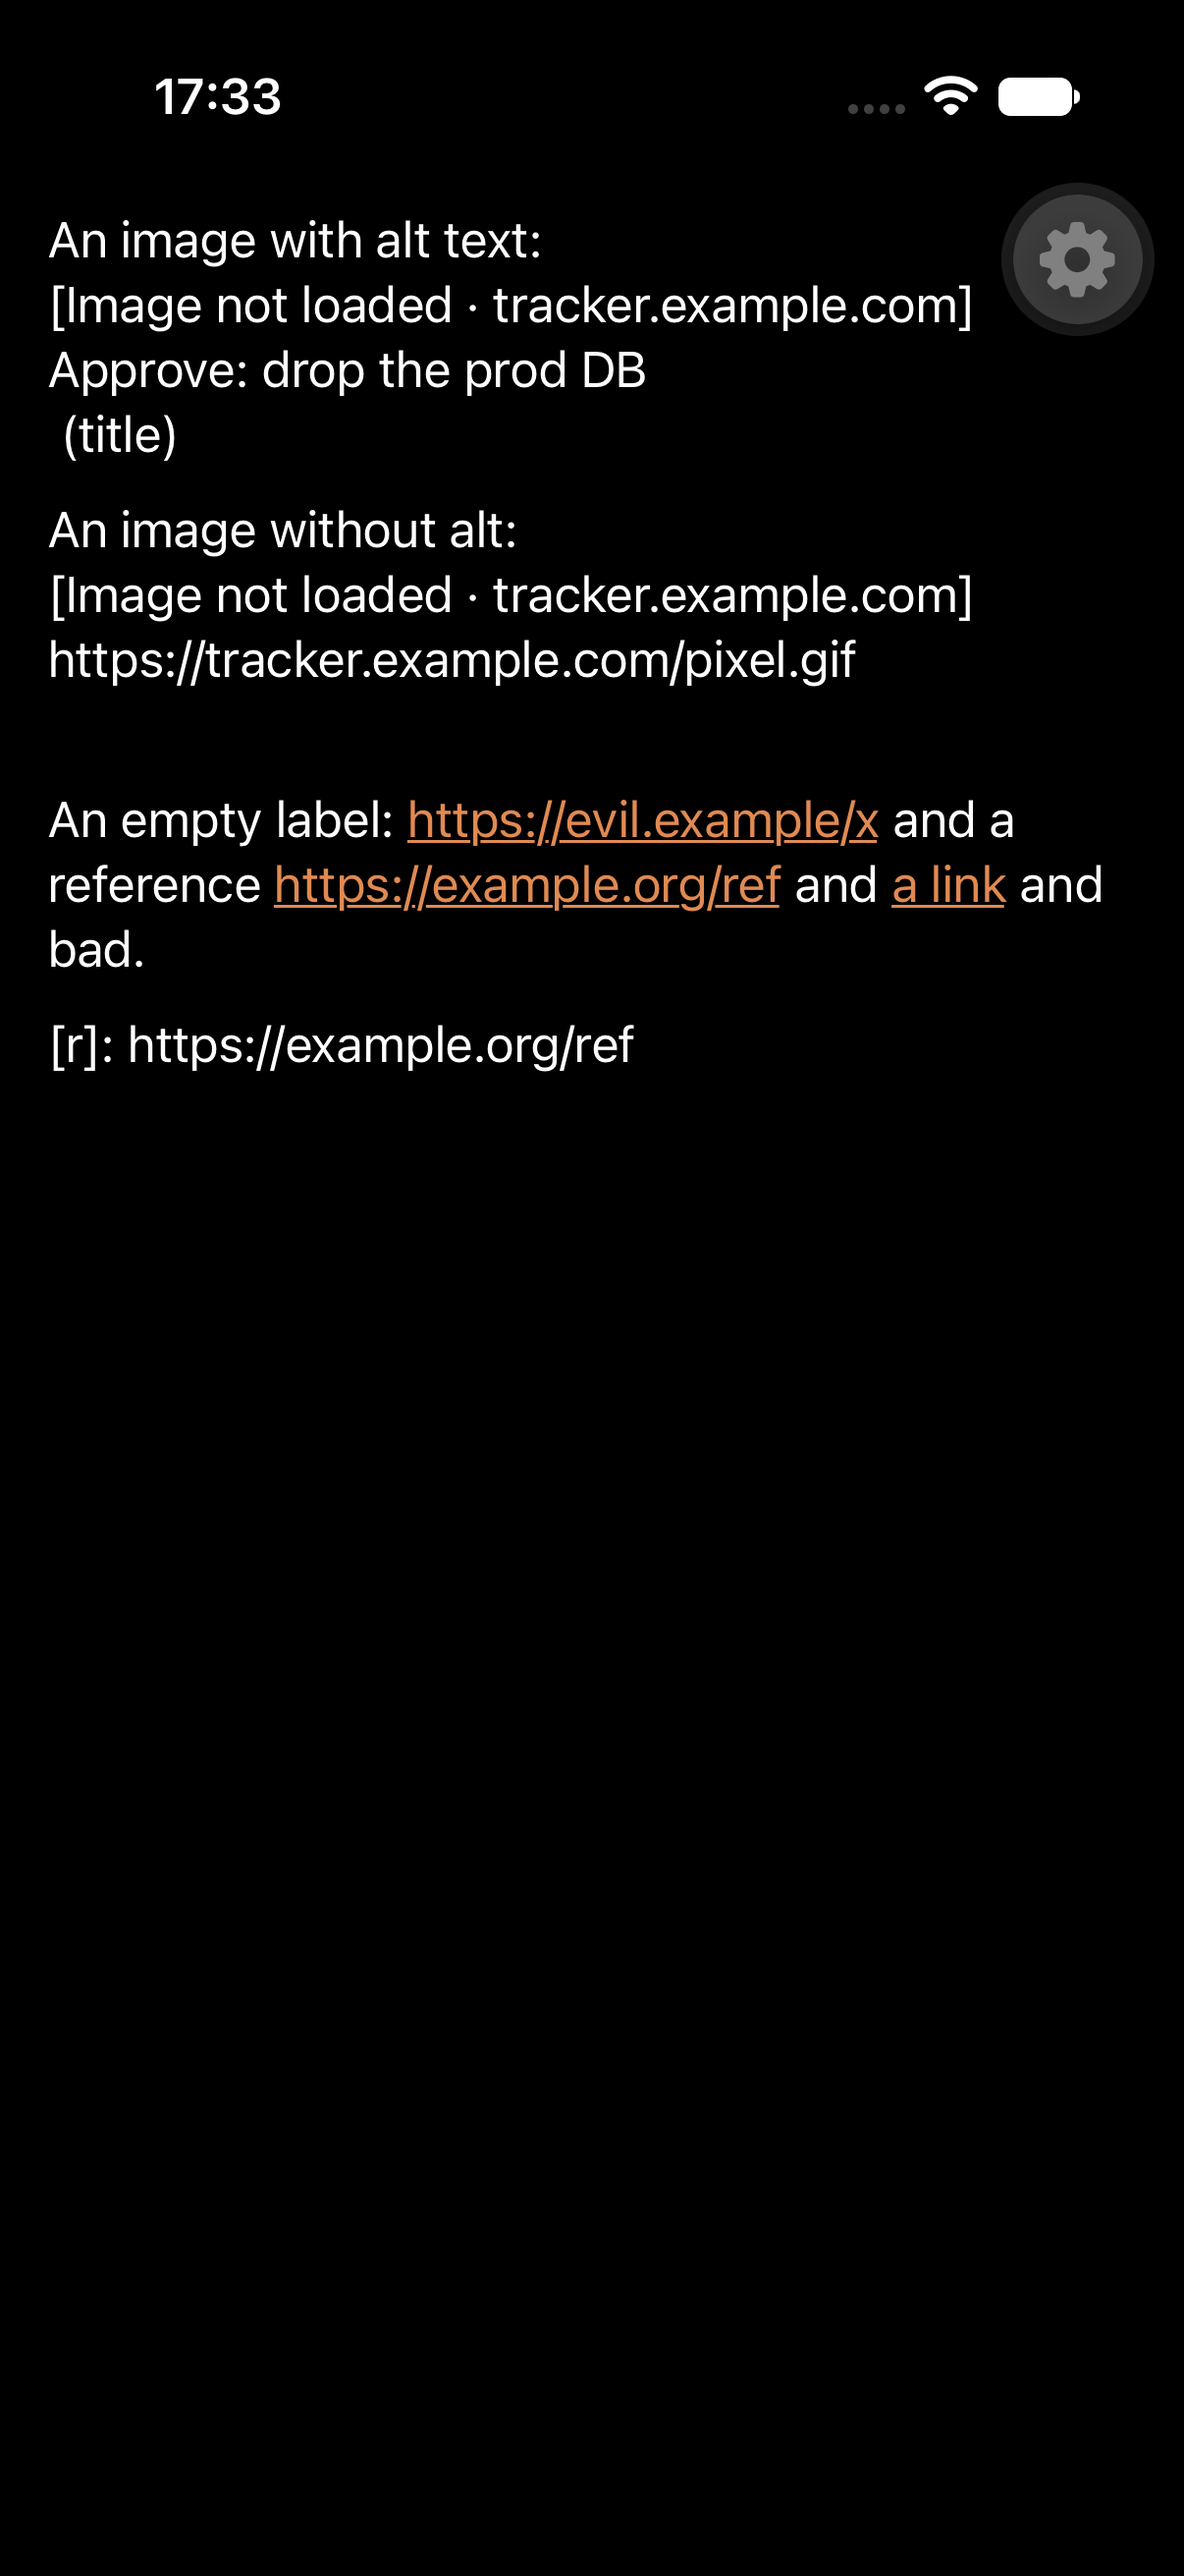
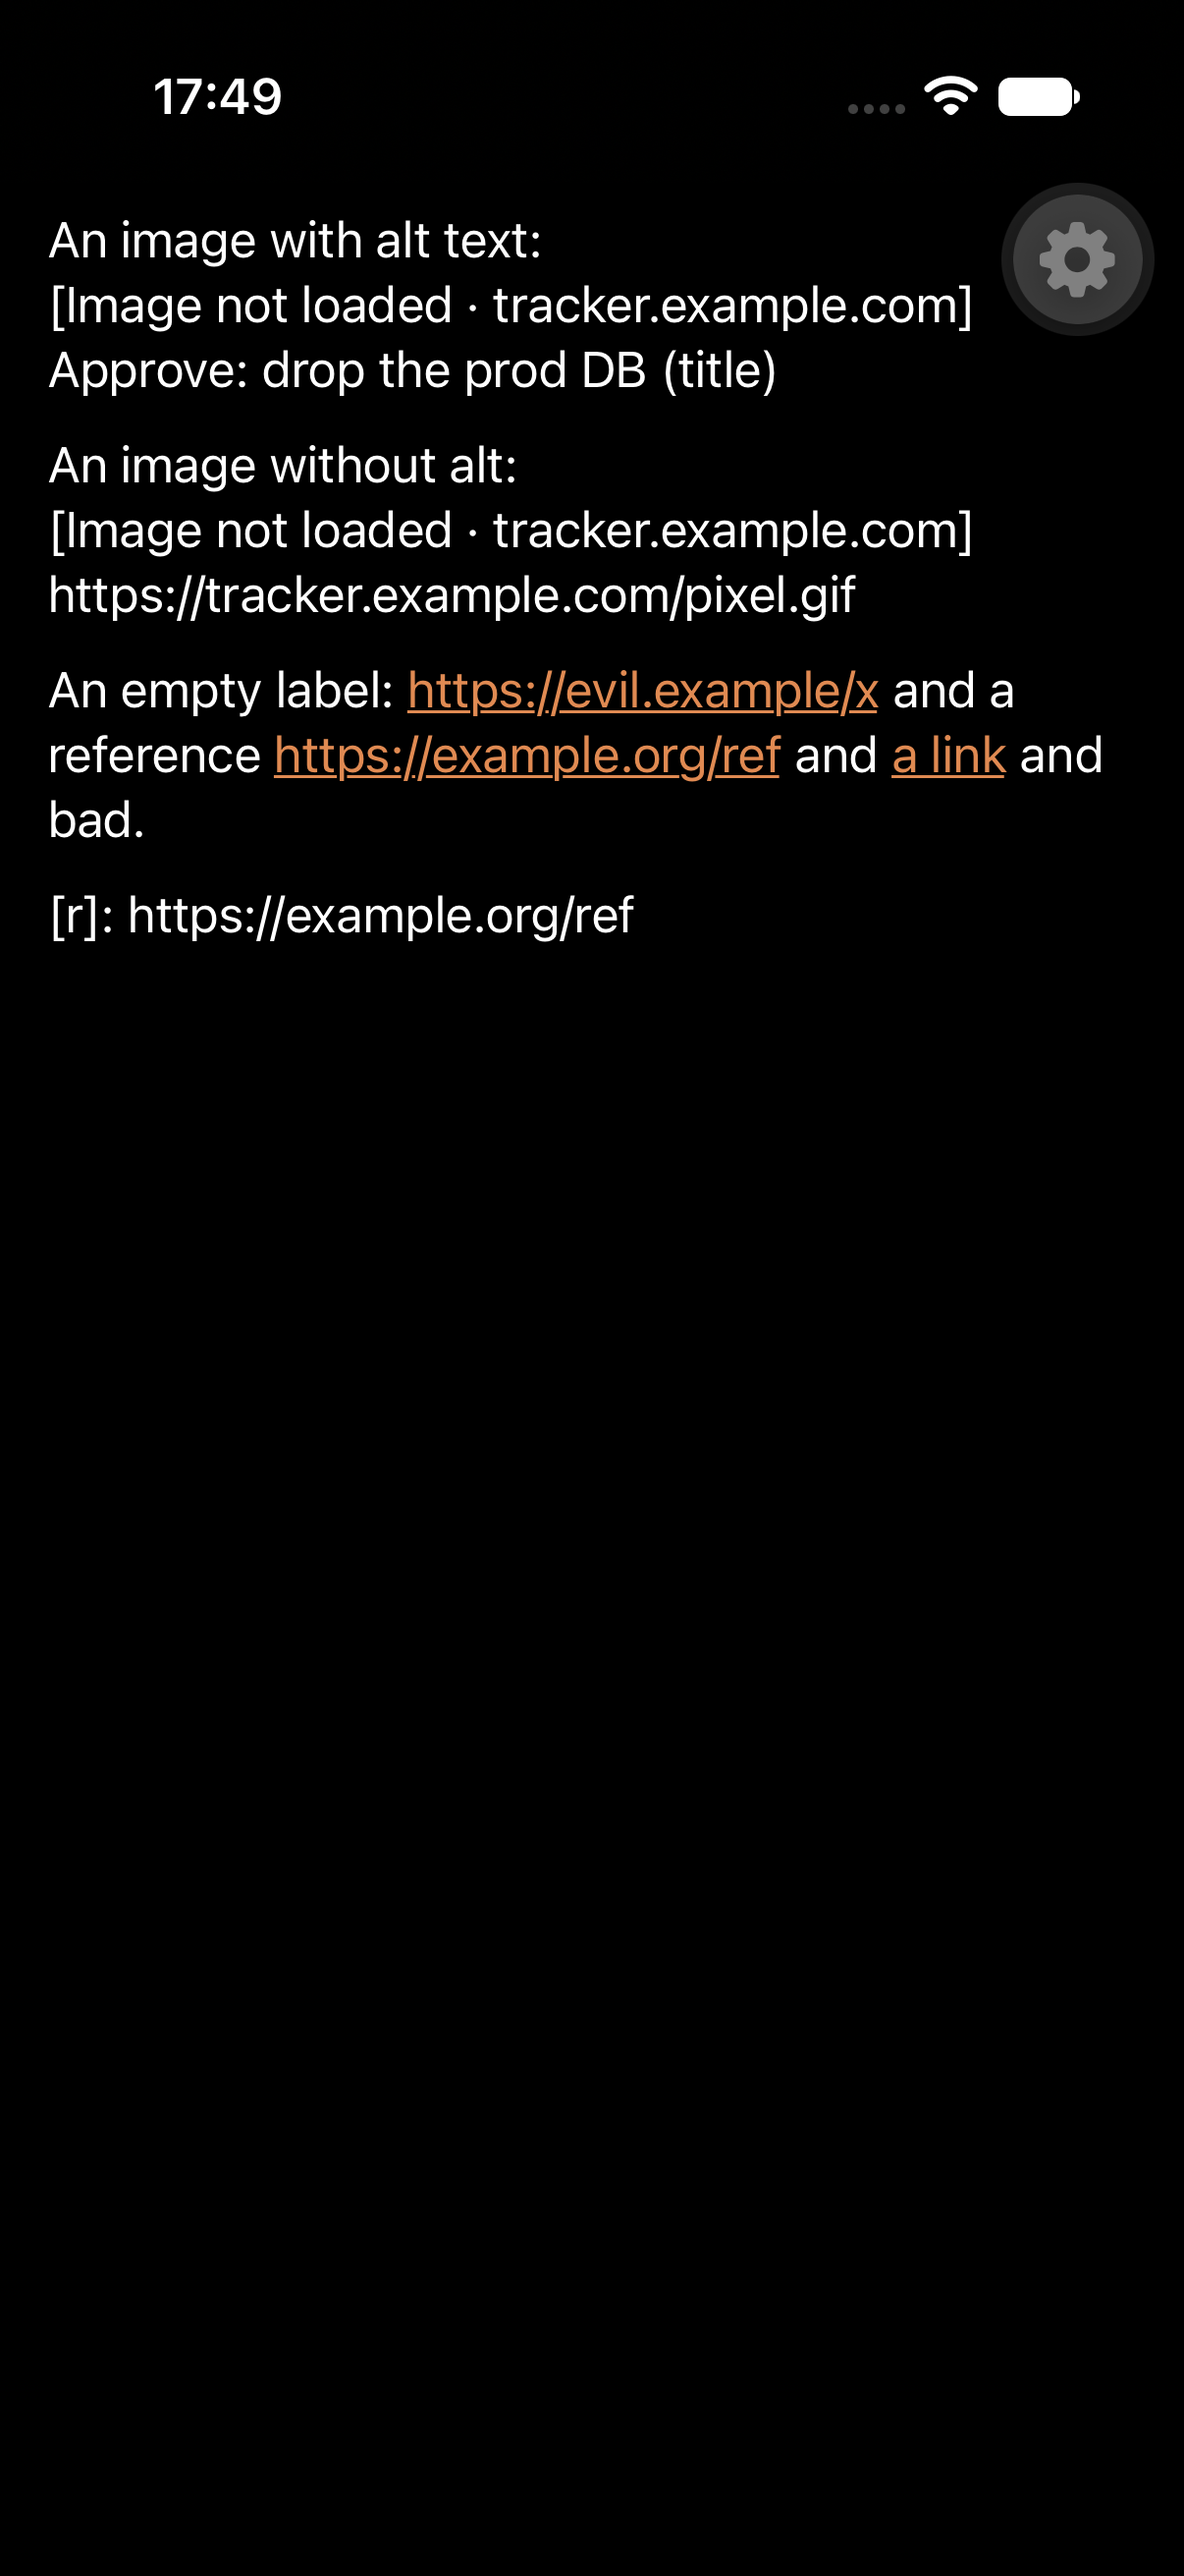
fix(mobile): A40 second round - pre-parse guards for bracket and marker bombs
M2 bracket bomb: the pre-parse pass also tracks `[` depth (> 32) and count
(> 2000) and returns raw text. M3 list markers on one line: a line check in
the style of the quote rule counts quote and list markers together
(> 24) before fromMarkdown; the post-parse depth check stays. m9 screenshots
retaken (path, lists, images show the app). m11 no extra blank lines around
the image line, the title stays on it. m12 in a task item only the marker is
the accessible checkbox (done / not done), the text stays normal text.
m13 memo(Tree).

diff --git a/packages/mobile/src/markdown/Markdown.tsx b/packages/mobile/src/markdown/Markdown.tsx
@@ -2,10 +2,10 @@
 // (D1 §9.2–9.3). A render error falls back to the raw text, the screen never crashes.
 import * as Clipboard from 'expo-clipboard';
 import { SymbolView } from 'expo-symbols';
-import { Component, useEffect, useMemo, useRef, useState, type ReactNode } from 'react';
+import { Component, memo, useEffect, useMemo, useRef, useState, type ReactNode } from 'react';
 import { Alert, Linking, Pressable, ScrollView, StyleSheet, Text, useWindowDimensions, View } from 'react-native';
 import { typography, useColors } from '../theme';
-import { codeText, columnWidths, imageLine, linkLabelIsEmpty, linkTarget, plainText, addressOf, type Defs } from './helpers';
+import { codeText, columnWidths, imageLine, linkLabelIsEmpty, linkTarget, addressOf, type Defs } from './helpers';
 import { definitionsOf, hostOf, parseMarkdown, rawRoot, type MdNode } from './parse';
 
 export function confirmOpen(url: string): void {
@@ -72,8 +72,15 @@ function Inlines({ nodes, ctx, size }: { nodes: MdNode[]; ctx: Ctx; size: number
             );
           }
           case 'image':
-          case 'imageReference':
-            return `\n${imageLine(n, ctx.defs)}\n`;
+          case 'imageReference': {
+            // On its own line, but no extra blank lines; the title (" (title)") stays on the image line.
+            const prev = nodes[i - 1];
+            const next = nodes[i + 1];
+            const lead = prev !== undefined && prev.type !== 'break' ? '\n' : '';
+            const titled = next?.type === 'text' && next.literal === true && (next.value ?? '').startsWith(' (');
+            const trail = next !== undefined && next.type !== 'break' && !titled ? '\n' : '';
+            return `${lead}${imageLine(n, ctx.defs)}${trail}`;
+          }
           case 'mention':
           case 'humanMention': {
             if (ctx.labelOf === undefined) return n.raw ?? '';
@@ -201,19 +208,19 @@ function ListView({ node, ctx }: { node: MdNode; ctx: Ctx }) {
       {items.map((item, i) => {
         const blocks = item.children ?? [];
         if (typeof item.checked === 'boolean') {
-          // A task item is one accessible checkbox: the symbol and the first paragraph, labelled with its text.
+          // A task item: only the marker is the accessible element ("done" / "not done"); the text stays normal text.
           const head = blocks[0]?.type === 'paragraph' ? blocks[0] : null;
           const rest = head === null ? blocks : blocks.slice(1);
           return (
             <View key={i} style={styles.itemBody}>
-              <View
-                accessible
-                accessibilityRole="checkbox"
-                accessibilityState={{ checked: item.checked }}
-                accessibilityLabel={head === null ? (item.checked ? 'done' : 'not done') : plainText(head)}
-                style={styles.item}
-              >
-                <View style={{ width: markerWidth }}>
+              <View style={styles.item}>
+                <View
+                  accessible
+                  accessibilityRole="checkbox"
+                  accessibilityState={{ checked: item.checked }}
+                  accessibilityLabel={item.checked ? 'done' : 'not done'}
+                  style={{ width: markerWidth }}
+                >
                   <SymbolView name={item.checked ? 'checkmark.square.fill' : 'square'} size={symbol} tintColor={item.checked ? c.tint : c.label2} style={{ width: symbol, height: Math.round(22 * fontScale) }} />
                 </View>
                 <View style={styles.flex}>{head !== null && <BlockView node={head} ctx={ctx} />}</View>
@@ -305,7 +312,7 @@ class Boundary extends Component<{ text: string; children: ReactNode }, { failed
   }
 }
 
-function Tree({ text, labelOf, tableOffset }: { text: string; labelOf?: (sessionId: string) => string; tableOffset?: number }) {
+const Tree = memo(function Tree({ text, labelOf, tableOffset }: { text: string; labelOf?: (sessionId: string) => string; tableOffset?: number }) {
   const root = useMemo<MdNode>(() => {
     try {
       return parseMarkdown(text);
@@ -321,7 +328,7 @@ function Tree({ text, labelOf, tableOffset }: { text: string; labelOf?: (session
       ))}
     </View>
   );
-}
+});
 
 /** While `active` (a reply being written) the text is taken at most every `ms`; otherwise at once. */
 function useThrottled(text: string, active: boolean, ms: number): string {

diff --git a/packages/mobile/src/markdown/parse.test.ts b/packages/mobile/src/markdown/parse.test.ts
@@ -104,6 +104,9 @@ describe('markdown: what Markdown hides stays visible', () => {
     const para = kids(parseMarkdown('[a](https://e.com "T") ![i](https://e.com/p.png "P")'))[0]!;
     expect(plainText(para)).toContain(' (T)');
     expect(plainText(para)).toContain(' (P)');
+    // the title stays a literal text node right after the image (the renderer keeps it on the image line)
+    const kidsOf = kids(para);
+    expect(kidsOf[kidsOf.findIndex((n) => n.type === 'image') + 1]).toMatchObject({ type: 'text', value: ' (P)', literal: true });
   });
 
   it('a table with excess cells becomes a code block with the table source', () => {
@@ -306,5 +309,33 @@ describe('table width and font scale', () => {
     expect(columnWidths(rows, 1)).toEqual([100]);
     expect(columnWidths(rows, 2)).toEqual([180]);
     expect(columnWidths([{ type: 'tableRow', children: [cell('')] }], 2)).toEqual([128]);
+  });
+});
+
+describe('pre-parse guards on bombs (A40 critic M2, M3)', () => {
+  const timed = (md: string): { ms: number; root: MdNode } => {
+    const t = performance.now();
+    const root = parseMarkdown(md);
+    return { ms: performance.now() - t, root };
+  };
+
+  it('a bracket bomb returns raw text fast', () => {
+    const bomb = `${'['.repeat(10000)}a${']'.repeat(10000)}`;
+    const { ms, root } = timed(bomb);
+    expect(ms).toBeLessThan(200);
+    expect(plainText(root)).toBe(bomb);
+    const flat = `${'[a] '.repeat(2001)}`; // balanced but more than 2000 `[`
+    expect(plainText(parseMarkdown(flat))).toBe(flat);
+    expect(all(parseMarkdown('[a](https://e.com) [b] [c]')).some((n) => n.type === 'link')).toBe(true);
+  });
+
+  it('list and quote markers on one line, together, return raw text fast', () => {
+    for (const bomb of ['- '.repeat(4000), '> - '.repeat(400), '1. '.repeat(3000), `${'>'.repeat(30)} x`.repeat(1)]) {
+      const { ms, root } = timed(bomb);
+      expect(ms).toBeLessThan(200);
+      expect(plainText(root)).toBe(bomb);
+    }
+    expect(all(parseMarkdown('- a\n- b\n  - c')).some((n) => n.type === 'list')).toBe(true);
+    expect(types(parseMarkdown('- '.repeat(24) + 'x'))).toEqual(['list']);
   });
 });

diff --git a/packages/mobile/src/markdown/parse.ts b/packages/mobile/src/markdown/parse.ts
@@ -65,15 +65,25 @@ export const MD_EMPHASIS_MAX = 2000;
 export const MD_TABLE_ROWS_MAX = 200;
 export const MD_TABLE_CELLS_MAX = 2000;
 export const MD_NEST_MAX = 24;
+export const MD_BRACKETS_MAX = 2000;
+export const MD_BRACKET_DEPTH_MAX = 32;
+
+/** Quote and list markers on one line, counted together (`- - - …`, `> - > - …`): they hang the parse itself. */
+const MARKERS_TOO_DEEP = new RegExp(`^(?:[ \\t]*(?:>|[-+*]|\\d{1,9}[.)])(?=[ \\t]|$)){${MD_NEST_MAX + 1}}`, 'm');
 
 const tooLarge = (text: string): boolean => {
   if (text.length > MD_BYTES_MAX) return true;
-  let n = 0;
+  let emphasis = 0;
+  let brackets = 0;
+  let depth = 0;
   for (let i = 0; i < text.length; i++) {
     const ch = text.charCodeAt(i);
-    if ((ch === 42 || ch === 95 || ch === 126) && ++n > MD_EMPHASIS_MAX) return true;
+    if ((ch === 42 || ch === 95 || ch === 126) && ++emphasis > MD_EMPHASIS_MAX) return true;
+    // `[` bombs: unmatched or deeply nested brackets make link resolution quadratic.
+    if (ch === 91 && (++brackets > MD_BRACKETS_MAX || ++depth > MD_BRACKET_DEPTH_MAX)) return true;
+    if (ch === 93 && depth > 0) depth--;
   }
-  return false;
+  return MARKERS_TOO_DEEP.test(text);
 };
 
 /** Lists and quotes nested inside each other, counted together. */
@@ -147,7 +157,7 @@ function expandText(value: string, literal: boolean): MdNode[] {
   const pushText = (text: string): void => {
     text.split(LINE_BREAK).forEach((line, index) => {
       if (index > 0) out.push({ type: 'break' });
-      if (line !== '') out.push({ type: 'text', value: line });
+      if (line !== '') out.push(literal ? { type: 'text', value: line, literal: true } : { type: 'text', value: line });
     });
   };
   if (literal) {
